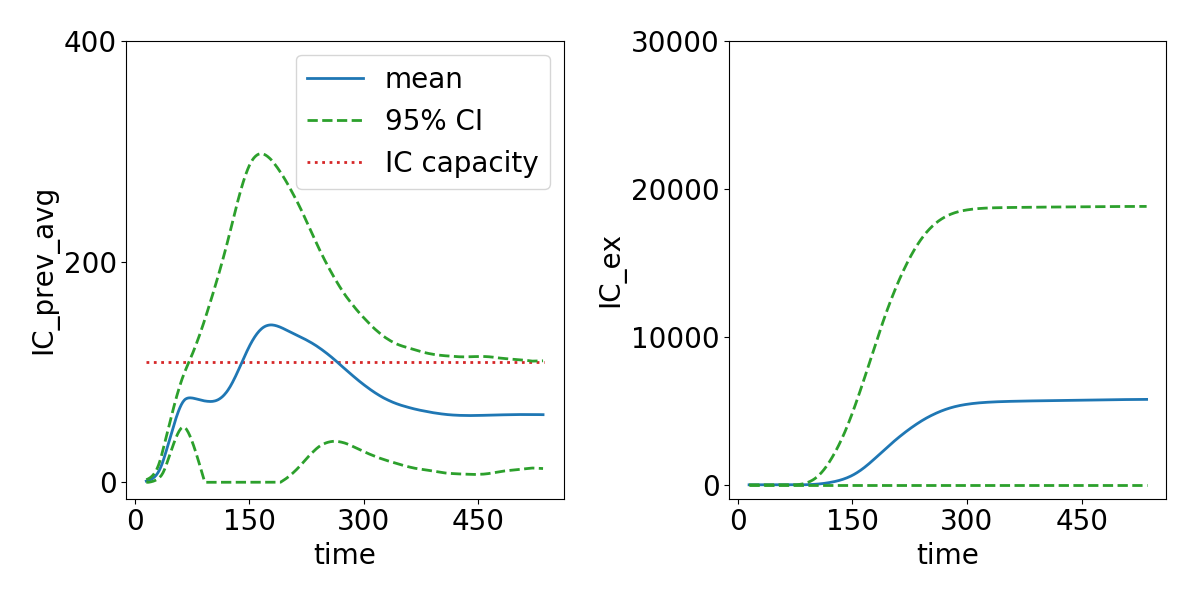
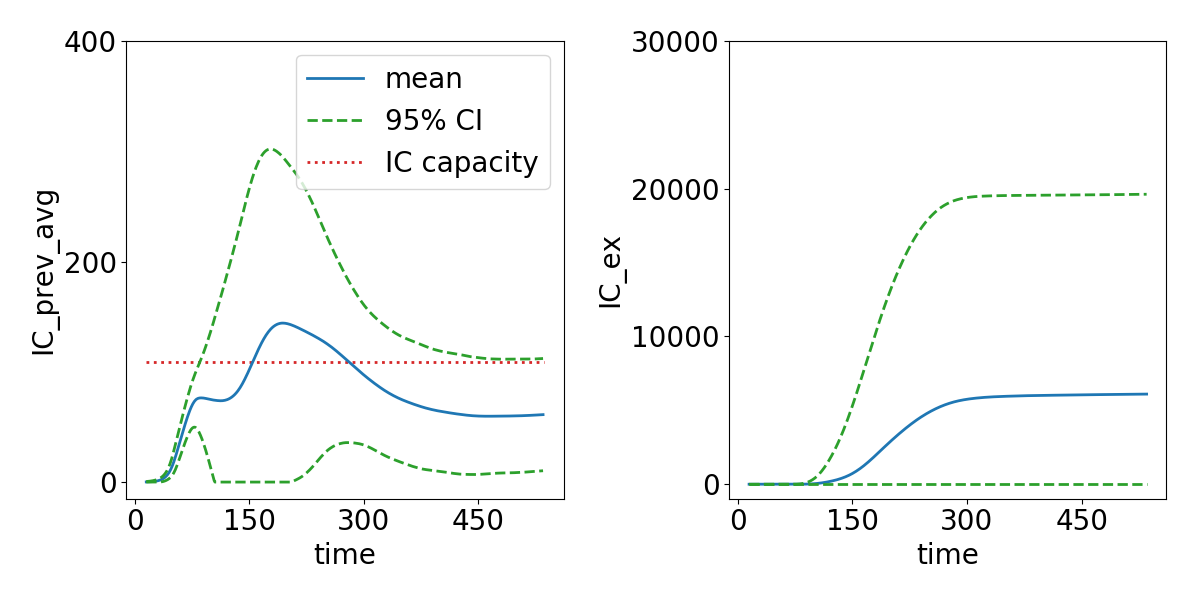
update PO plots and insert end-of-code line

diff --git a/EasyVVUQ/mean_var_post_proc_corona.py b/EasyVVUQ/mean_var_post_proc_corona.py
@@ -99,3 +99,7 @@ ax_e.set_yticks([0, 1e4, 2e4, 3e4])
 
 plt.tight_layout()
 f.savefig('figures/QoIs_CT_bio_MC1000.png')
+
+plt.show()
+
+### END OF CODE ###

diff --git a/EasyVVUQ/heatmap_corona.py b/EasyVVUQ/heatmap_corona.py
@@ -82,3 +82,7 @@ ax_e.set_yticks([0.6, 0.8, 1.0])
 
 plt.tight_layout()
 f.savefig('figures/heatmap_FC_MC1000.png')
+
+plt.show()
+
+### END OF CODE ###

diff --git a/EasyVVUQ/compare_cdf.py b/EasyVVUQ/compare_cdf.py
@@ -136,3 +136,5 @@ plt.tight_layout()
 f_FC.savefig('figures/cdf_FC_MC100_comparison.png')
 
 plt.show()
+
+### END OF CODE ###

diff --git a/EasyVVUQ/cdf_post_proc_corona.py b/EasyVVUQ/cdf_post_proc_corona.py
@@ -127,3 +127,5 @@ plt.tight_layout()
 f.savefig('figures/cdf_IL_bio_IC_ex_percentage')
 
 plt.show()
+
+### END OF CODE ###

diff --git a/EasyVVUQ/plot_distributions.py b/EasyVVUQ/plot_distributions.py
@@ -129,3 +129,5 @@ leg.set_draggable(True)
 plt.tight_layout()
 
 plt.show()
+
+### END OF CODE ###
